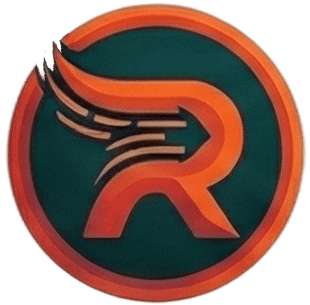
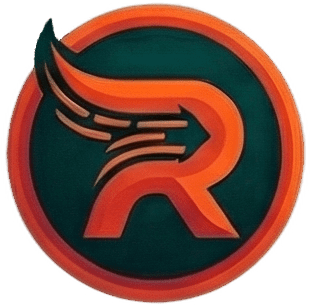
image improvements

diff --git a/README.md b/README.md
@@ -1,5 +1,5 @@
 <p align="center">
-  <img src="images/banner.png" alt="Ratatoskr" />
+  <img src="images/banner_outlined.png" alt="Ratatoskr" />
 </p>
 
 <p align="center">
